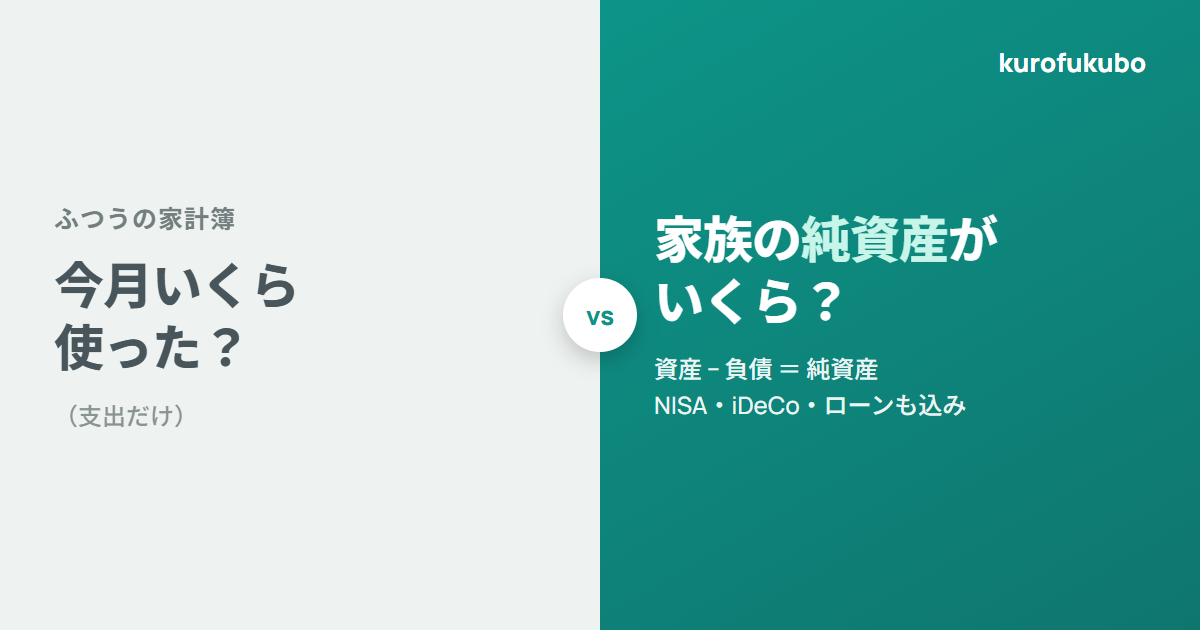
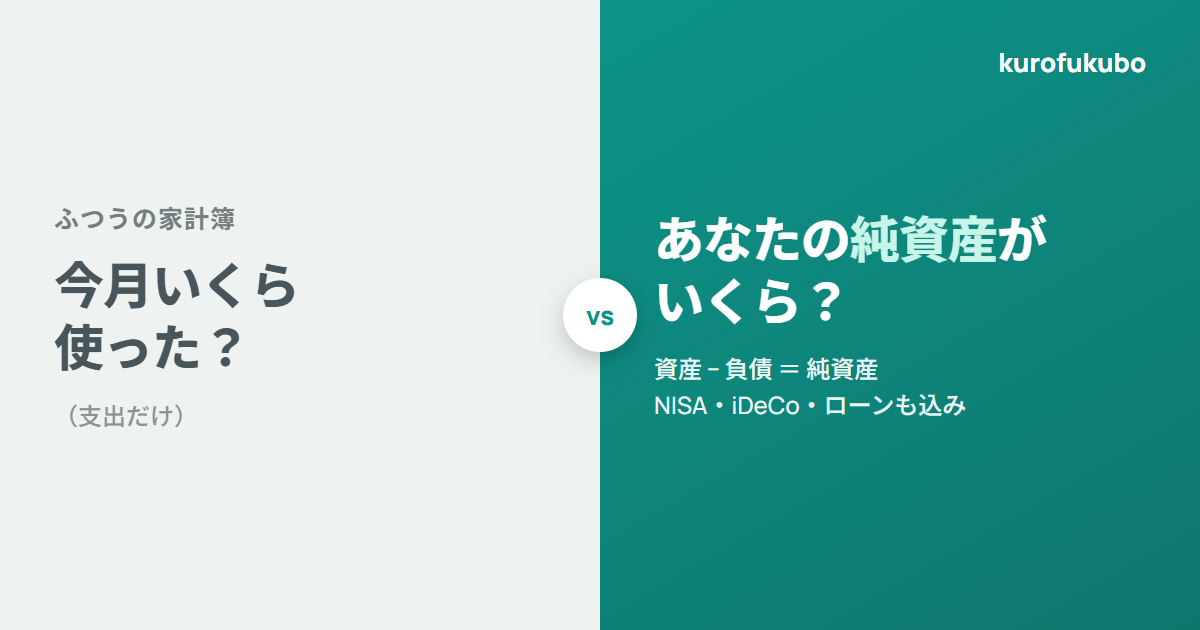
content: アプリのコピー調整とOGP画像を更新
- frontend/index.html: meta/OG/twitter description を「家族の純資産」→「あなたの純資産」に
- OGP画像(app + lp)を最新デザインに差し替え

Changed region(s): [[0.5242, 0.3317, 0.8942, 0.4222]]

diff --git a/frontend/index.html b/frontend/index.html
@@ -5,17 +5,17 @@
   <meta name="viewport" content="width=device-width, initial-scale=1.0">
   <script async src="https://pagead2.googlesyndication.com/pagead/js/adsbygoogle.js?client=ca-pub-1494837719359912" crossorigin="anonymous"></script>
   <title>kurofukubo — 複式簿記の家計簿</title>
-  <meta name="description" content="現金・証券・NISA/iDeCo・ローンまで、家族の純資産を一画面で。運営者にも中身が見えないE2E暗号化対応。登録なし・無料で試せます。">
+  <meta name="description" content="現金・証券・NISA/iDeCo・ローンまで、あなたの純資産を一画面で。運営者にも中身が見えないE2E暗号化対応。登録なし・無料で試せます。">
   <!-- OGP / Twitter Card（Xのクローラーは静的HTMLしか読まないため、ここに明記） -->
   <meta property="og:title" content="kurofukubo — 純資産まで見える複式簿記の家計簿">
-  <meta property="og:description" content="現金・証券・NISA/iDeCo・ローンまで、家族の純資産を一画面で。運営者にも中身が見えないE2E暗号化対応。登録なし・無料で試せます。">
+  <meta property="og:description" content="現金・証券・NISA/iDeCo・ローンまで、あなたの純資産を一画面で。運営者にも中身が見えないE2E暗号化対応。登録なし・無料で試せます。">
   <meta property="og:type" content="website">
   <meta property="og:url" content="https://app.kurofukubo.com/">
   <meta property="og:image" content="https://app.kurofukubo.com/ogp-promo.png">
   <meta property="og:locale" content="ja_JP">
   <meta name="twitter:card" content="summary_large_image">
   <meta name="twitter:title" content="kurofukubo — 純資産まで見える複式簿記の家計簿">
-  <meta name="twitter:description" content="現金・証券・NISA/iDeCo・ローンまで、家族の純資産を一画面で。運営者にも中身が見えないE2E暗号化対応。登録なし・無料で試せます。">
+  <meta name="twitter:description" content="現金・証券・NISA/iDeCo・ローンまで、あなたの純資産を一画面で。運営者にも中身が見えないE2E暗号化対応。登録なし・無料で試せます。">
   <meta name="twitter:image" content="https://app.kurofukubo.com/ogp-promo.png">
   <link rel="icon" type="image/svg+xml" href="/favicon.svg">
   <link rel="icon" type="image/png" sizes="32x32" href="/favicon-32.png">
